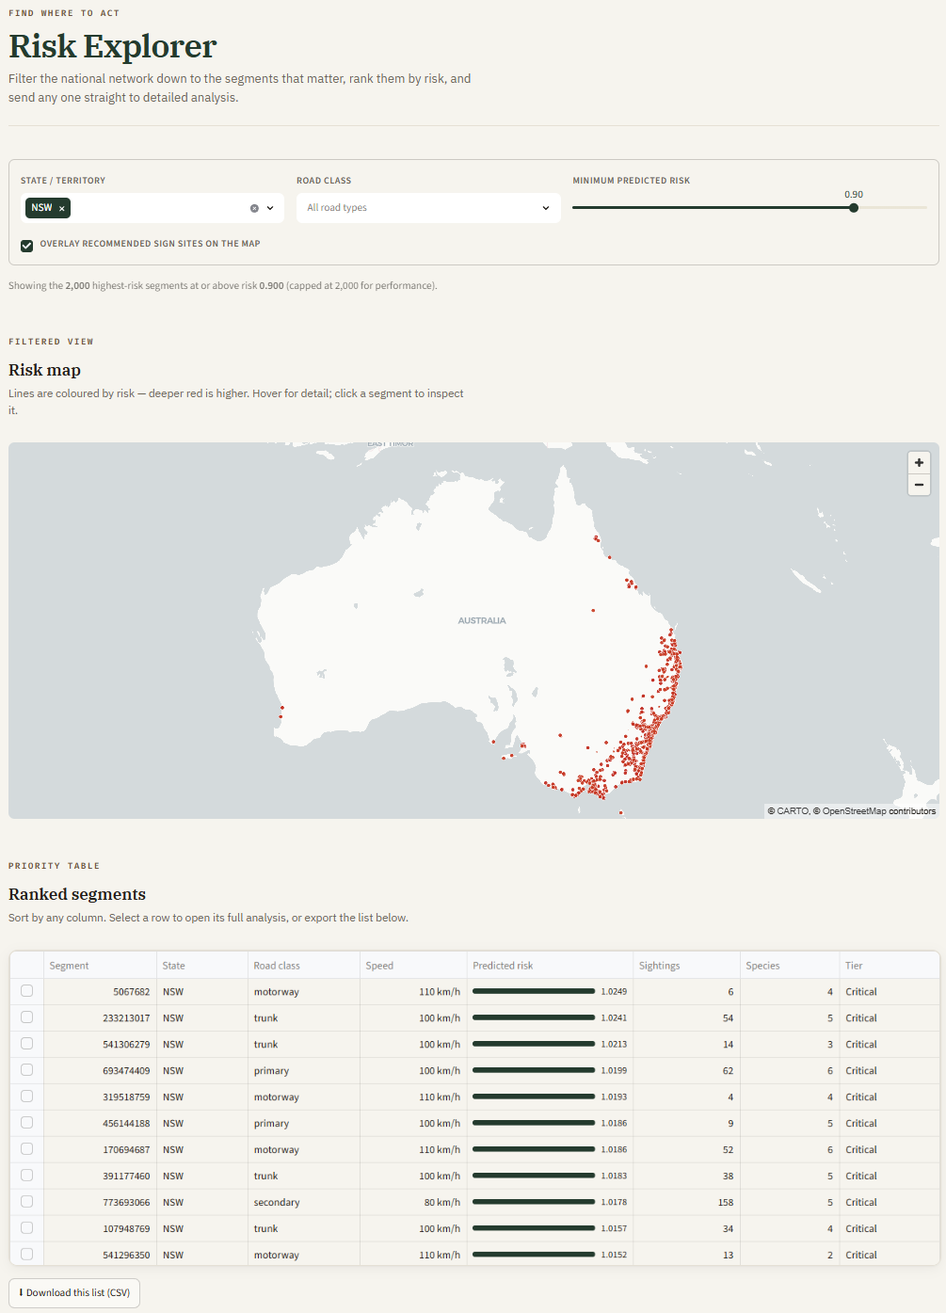
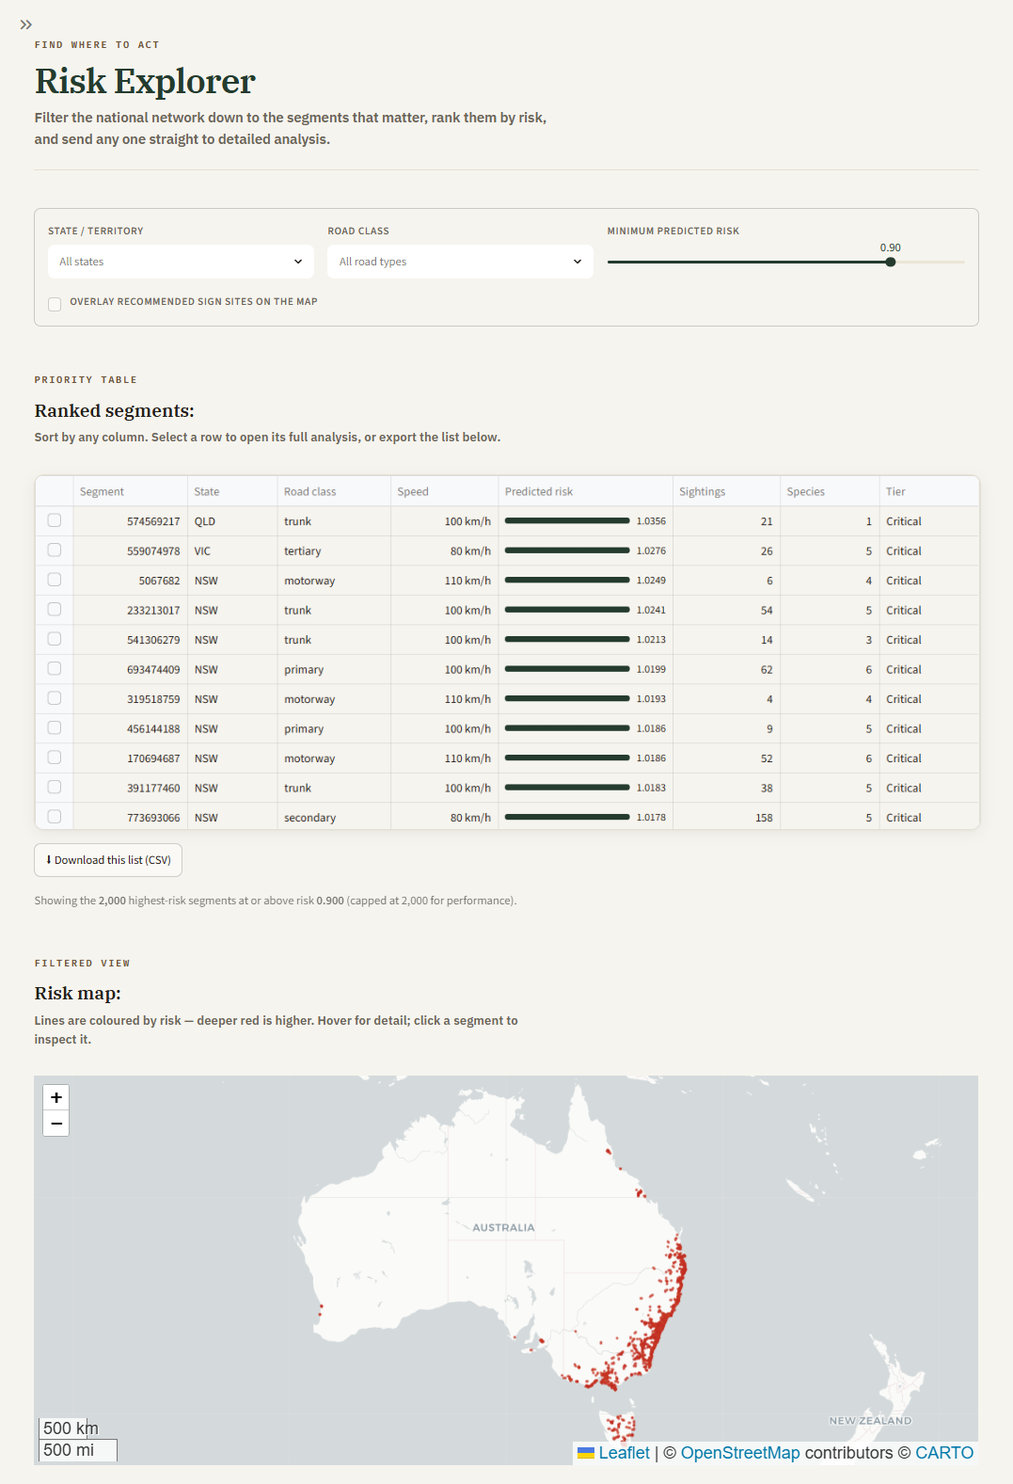
docs: update screenshots, README and METHODOLOGY

diff --git a/app/components/maps.py b/app/components/maps.py
@@ -1,5 +1,5 @@
 """
-maps.py — folium map builders (replaces the pydeck implementation).
+maps.py — folium map builders.
 
 Performance pattern:
   • Heavy GeoJSON view-models are built in @st.cache_data functions with

diff --git a/README.md b/README.md
@@ -39,51 +39,44 @@ Built entirely on 100% open data and open-source tools, it can be reproduced, au
 
 ## 📸 Application Interface & Core Views
 
-The interactive Streamlit application provides a multipage workspace for exploring model outputs, auditing segment risk factors, and reviewing signage proposals. The visual system uses the "Bushland & Hazard" design theme (warm eucalyptus green and Aussie-soil tones) structured into five distinct functional views.
+The interactive Streamlit application is structured into **five distinct functional views** under the "Bushland & Hazard" design theme — from national-scale hotspot discovery through per-segment SHAP diagnostics to GIS-ready sign placement export.
 
-### 1. National Overview
-
-Renders the high-level landing page, summarizing national network stats, state-by-state risk distributions, and a prioritized list of hotspots.
-
-![National Overview interface showing KPI cards, state risk choropleth map, and top hotspot table](docs/screenshots/1-national-overview.png)
-_National dashboard with WebGL state-level choropleth showing where critical road segments are concentrated._
-
----
-
-### 2. Risk Explorer
-
-Provides dynamic filtering (by state, road class, and risk threshold) to subset the national network. Features a high-performance WebGL segment map and interactive ranked list with download options.
-
-![Risk Explorer showing filters and high-risk segment path overlay on map](docs/screenshots/2-risk-explorer.png)
-
-_WebGL-rendered road segment paths colored by risk tier, paired with a sortable, row-selectable priority table that routes straight to detailed analysis._
-
-### 3. Segment Detail
-
-The diagnostic deep dive. For any individual segment, it details the specific features driving the risk prediction and visualizes its localized geometry.
-
-#### 🎛 SHAP Risk Attribution Waterfall
-
-![SHAP waterfall chart with custom green and orange color ramp for feature contributions](docs/screenshots/3-detail-shap.png)
-_Detailed inspection view featuring metric bands, warning sign status checks, a high-zoom segment locator map, and a color-coded SHAP waterfall plot showing positive (red) and negative (blue) feature attributions._
-
----
-
-### 4. Sign Placements
-
-The actionable planning tool. Maps the 1,189 recommended warning sign sites, shows state-by-state resource allocation, and allows downloading the coordinates as GIS-ready GeoJSON or CSV data.
-
-![Sign Placements page showing recommended sign markers across Australia and state breakdown](docs/screenshots/4-sign-placements.png)
-_Sign placement overview with recommended sign coordinates on the national map, filtered by state._
-
----
-
-### 5. Methodology & Data
-
-In-app documentation displaying system parameters, validation metrics (R², MAE, Moran's I), and design limitations to establish transparency.
-
-![Methodology & Data page showing system equations, validation summaries, and limitations](docs/screenshots/5-methodology-view.png)
-_Comprehensive documentation integrated directly into the web application chrome to support non-technical reviewer audits._
+<table style="width: 100%; max-width: 800px; margin: 0 auto; border-collapse: collapse;">
+  <tr>
+    <td width="33.3%" align="center" valign="top" style="padding: 10px;">
+      <img src="docs/screenshots/1-national-overview.png" alt="National Overview" style="width: 100%; max-width: 240px; border-radius: 6px; box-shadow: 0 2px 8px rgba(0,0,0,0.15);" /><br/>
+      <strong>National Overview</strong><br/>
+      <em>KPI cards · state choropleth · top-hotspot ranking table</em>
+    </td>
+    <td width="33.3%" align="center" valign="top" style="padding: 10px;">
+      <img src="docs/screenshots/2-risk-explorer.png" alt="Risk Explorer" style="width: 100%; max-width: 240px; border-radius: 6px; box-shadow: 0 2px 8px rgba(0,0,0,0.15);" /><br/>
+      <strong>Risk Explorer</strong><br/>
+      <em>State / road class / threshold filters · risk-tiered segment overlay · sortable priority table</em>
+    </td>
+    <td width="33.3%" align="center" valign="top" style="padding: 10px;">
+      <img src="docs/screenshots/3-detail-shap.png" alt="Segment Detail — SHAP Waterfall" style="width: 100%; max-width: 240px; border-radius: 6px; box-shadow: 0 2px 8px rgba(0,0,0,0.15);" /><br/>
+      <strong>Segment Detail</strong><br/>
+      <em>High-zoom locator map · SHAP waterfall attribution by feature</em>
+    </td>
+  </tr>
+  <tr>
+    <td width="33.3%" align="center" valign="top" style="padding: 10px;">
+      <img src="docs/screenshots/4-sign-placements.png" alt="Sign Placements" style="width: 100%; max-width: 240px; border-radius: 6px; box-shadow: 0 2px 8px rgba(0,0,0,0.15);" /><br/>
+      <strong>Sign Placements</strong><br/>
+      <em>1,189 recommended sites · state breakdown · GeoJSON / CSV export</em>
+    </td>
+    <td width="33.3%" align="center" valign="top" style="padding: 10px;">
+      <img src="docs/screenshots/5-methodology-view.png" alt="Methodology & Data" style="width: 100%; max-width: 240px; border-radius: 6px; box-shadow: 0 2px 8px rgba(0,0,0,0.15);" /><br/>
+      <strong>Methodology & Data</strong><br/>
+      <em>Proxy label approx · formulas · Data sources & coverage</em>
+    </td>
+    <td width="33.3%" align="center" valign="top" style="padding: 10px;">
+      <img src="docs/screenshots/5-methodology-view2.png" alt="Methodology & Data" style="width: 100%; max-width: 240px; border-radius: 6px; box-shadow: 0 2px 8px rgba(0,0,0,0.15);" /><br/>
+      <strong>Methodology & Data</strong><br/>
+      <em>Validation strategy · performance metrics · spatial autocorrelation · design limitations </em>
+    </td>
+  </tr>
+</table>
 
 ---
 
@@ -192,10 +185,10 @@ The platform is a sequential, modular pipeline — from raw API calls to a live 
                                  │
                                  ▼
 ╔══════════════════════════════════════════════════════════════════════╗
-║               STREAMLIT APPLICATION (Community Cloud)                ║
-║  Folium risk heatmap · High-risk segment overlay                     ║
+║               STREAMLIT APPLICATION (Hugging Face)                   ║
+║  Folium state choropleth · High-risk segment overlay                 ║
 ║  Sign placement markers · SHAP waterfall on click                    ║
-║  Species / season / state / risk filters in sidebar                  ║
+║  State / road class / risk threshold filters in Explorer             ║
 ╚══════════════════════════════════════════════════════════════════════╝
 ```
 
@@ -205,21 +198,45 @@ The platform is a sequential, modular pipeline — from raw API calls to a live 
 
 ### 1. Spatially-Lagged Proxy Label
 
-The system has no direct observational roadkill counts. Instead, it constructs a rigorous **proxy risk label** from first principles. The key innovation is the **spatial lag blending step**, which injects neighbourhood context into the label:
+The system has no direct observational roadkill counts. Instead, it constructs a rigorous **proxy risk label** from first principles. The key innovation is the **spatial lag blending step**, which injects neighbourhood context into the label. The diagram below illustrates the full label construction pipeline:
 
-```python
-# Step 1: Compute raw risk from ecology and road exposure
-raw_risk = ecological_score × road_exposure_score
+```mermaid
+flowchart LR
+    subgraph ECO["Ecological Dimension"]
+        E1["Sighting Density\n(norm)"]
+        E2["NDVI · Habitat Quality\n(norm)"]
+        E3["Species Richness\n(norm)"]
+        E4["Peak Season Weight\n(norm)"]
+        E5["Nocturnal Weight\n(norm)"]
+        E6["Body Mass Weight\n(norm)"]
+    end
 
-# Step 2: Compute spatial lag using PySAL KNN(k=5)
-# Each segment's label is influenced by 5 nearest neighbours
-spatial_lag = lag_spatial(w, raw_risk)   # row-standardised weights
+    subgraph ROAD["Road Exposure Dimension"]
+        R1["Speed Limit\n(norm)"]
+        R2["Proximity to Road\n(norm)"]
+        R3["Traffic Proxy\n(norm)"]
+    end
 
-# Step 3: Blend — 70% local signal, 30% neighbourhood context
-blended_risk = 0.7 × raw_risk + 0.3 × spatial_lag
+    ES["ecological_score\n(weighted sum)"]
+    RS["road_exposure_score\n(weighted sum)"]
 
-# Step 4: Rank normalise to [0, 1]
-proxy_risk = percentile_rank(blended_risk)
+    E1 & E2 & E3 & E4 & E5 & E6 --> ES
+    R1 & R2 & R3 --> RS
+
+    RR["raw_risk\n= ecological × road_exposure"]
+    ES & RS --> RR
+
+    SL["spatial_lag\n= KNN(k=5) weighted\navg of neighbours"]
+    RR --> SL
+
+    BR["blended_risk\n= 0.7 × raw + 0.3 × lag"]
+    RR & SL --> BR
+
+    PR["proxy_risk\n= percentile_rank → [0, 1]"]
+    BR --> PR
+
+    style ECO fill:#1a3a1a,stroke:#4caf50,color:#e8f5e9
+    style ROAD fill:#3a1a1a,stroke:#f44336,color:#ffebee
 ```
 
 **Why this matters:** The spatial lag makes the label **non-recoverable by formula**. No model can perfectly predict the label by just computing the raw ecological and road scores, because those scores don't contain the neighbourhood context encoded in the lag. This forces the model to learn genuine spatial generalisation patterns rather than memorising the label construction formula.
@@ -241,13 +258,21 @@ This gives XGBoost explicit neighbourhood context as input features, reducing th
 
 Standard random CV is catastrophically wrong for spatial data. If a model trains on segments 50m from a test segment, it will appear to generalise when it's actually interpolating. This platform uses **stochastic spatial block CV with jittered boundaries**:
 
-```python
-def assign_jittered_blocks(gdf, block_size=50_000, jitter_range=15_000):
-    # Randomly shift the 50km×50km grid by ±15km for each fold
-    jitter_x = np.random.uniform(-jitter_range, jitter_range)
-    jitter_y = np.random.uniform(-jitter_range, jitter_range)
-    # Assign each segment to its jittered block
-    ...
+```mermaid
+flowchart LR
+    A["Road Segments\n(EPSG:32754)"] --> B["Assign 50km × 50km\nGrid Blocks"]
+    B --> C["Apply ±15km Random\nBoundary Jitter per Fold"]
+    C --> D{"5-Fold\nGroupKFold\nCV Split"}
+    D --> E1["Fold 1\nTrain / Test"]
+    D --> E2["Fold 2\nTrain / Test"]
+    D --> E3["Fold 3\nTrain / Test"]
+    D --> E4["Fold 4\nTrain / Test"]
+    D --> E5["Fold 5\nTrain / Test"]
+    E1 & E2 & E3 & E4 & E5 --> F["Aggregate: CV R² · CV MAE\n(genuine out-of-sample estimate)"]
+
+    style A fill:#1a2a3a,stroke:#2196f3,color:#e3f2fd
+    style D fill:#3a2a1a,stroke:#ff9800,color:#fff3e0
+    style F fill:#1a3a1a,stroke:#4caf50,color:#e8f5e9
 ```
 
 Segments near block boundaries rotate between train and test sets across folds. The result is CV metrics that reflect **genuine out-of-sample spatial generalisation** — not interpolation between nearby points.
@@ -393,20 +418,34 @@ All five data sources are **100% free and openly licensed**. The entire pipeline
 
 ## 📈 Current Status
 
-| Phase  | Description                                     | Key Details                                                                  | Status      |
-| ------ | ----------------------------------------------- | ---------------------------------------------------------------------------- | ----------- |
-| **1**  | Data ingestion (ALA + GBIF)                     | Async HTTPX + Requests; 11 species × 8 states/territories                    | ✅ Complete |
-| **2**  | Data cleaning + deduplication                   | Null removal · bounding-box filter · temporal filter (2020–2026)             | ✅ Complete |
-| **3**  | Spatial join to road network + state boundaries | Nearest-neighbour join in EPSG:32754; `distance_to_road` column              | ✅ Complete |
-| **4**  | Feature engineering                             | NDVI composite; ecological weights; season mapping                           | ✅ Complete |
-| **5**  | Proxy label construction                        | Ecological × road exposure · spatial lag blend · rank normalisation          | ✅ Complete |
-| **6**  | Model training (XGBoost + SHAP + Moran's I)     | Stochastic spatial block CV · spatial lag input features · SHAP values       | ✅ Complete |
-| **7**  | Optuna hyperparameter search                    | 50-trial Bayesian optimisation (TPE sampler, multi-seed CV)                  | ✅ Complete |
-| **8**  | Sign placement engine                           | Risk threshold > 0.98 · per-state selection · 2km buffer dedup · 1,189 signs | ✅ Complete |
-| **9**  | Streamlit + Folium application                  | Risk heatmap · segment overlay · SHAP waterfall panel                        | ✅ Complete |
-| **10** | METHODOLOGY.md + documentation                  | Data provenance · label rationale · Moran's I result · limitations           | ✅ Complete |
+All development phases have been completed and the platform is fully deployed. The Gantt chart below illustrates phase sequencing and interdependencies across the pipeline:
 
-**Pipeline output:**
+```mermaid
+gantt
+    title Pipeline Development Phases — Australian Wildlife Roadkill Risk Mapper
+    dateFormat  YYYY-MM-DD
+    axisFormat  Phase %d
+
+    section Data Acquisition
+    Data ingestion (ALA + GBIF)          :done, p1, 2024-01-01, 2d
+    Data cleaning + deduplication        :done, p2, after p1, 1d
+
+    section Spatial Processing
+    Spatial join — road network + states :done, p3, after p2, 2d
+    Feature engineering (NDVI, weights)  :done, p4, after p3, 2d
+
+    section Modelling
+    Proxy label construction             :done, p5, after p4, 1d
+    XGBoost training + SHAP + Moran I    :done, p6, after p5, 3d
+    Optuna hyperparameter search         :done, p7, after p6, 2d
+
+    section Deployment
+    Sign placement engine                :done, p8, after p7, 1d
+    Streamlit + Folium application       :done, p9, after p8, 3d
+    METHODOLOGY.md + documentation       :done, p10, after p9, 2d
+```
+
+**Pipeline output artefacts:**
 
 - `sightings.parquet` — 413,000 sighting rows · 11 species · 17 features · ~18MB
 - `data/processed/road_segments.parquet` — Proxy risk score per road segment · ~53MB
@@ -422,16 +461,15 @@ All five data sources are **100% free and openly licensed**. The entire pipeline
 
 ### Technical Targets
 
-| Metric                    | Target           | Result                       | Status              |
-| ------------------------- | ---------------- | ---------------------------- | ------------------- |
-| App initial load time     | ≤ 5 seconds      | < 3 seconds                  | ✅ Met              |
-| SHAP coverage             | 100% of features | 100%                         | ✅ Met              |
-| SHAP plot generation      | < 5 seconds      | < 2 seconds                  | ✅ Met              |
-| Peak memory usage         | ≤ 1GB            | ~200MB pipeline · ~400MB app | ✅ Met              |
-| Initial page              | —                | ~0.9 seconds                 | ✅ Optimised        |
-| Metric cards              | —                | ~2.1 seconds                 | ✅ Optimised        |
-| Map (full load)           | —                | ~3.56 seconds                | ✅ Optimised        |
-| Memory vs. naive baseline | —                | 60–70% lower                 | ✅ Optimised        |
+| Metric                | Target           | Result                       | Status       |
+| --------------------- | ---------------- | ---------------------------- | ------------ |
+| App initial load time | ≤ 5 seconds      | ~2.25 seconds                | ✅ Met       |
+| SHAP coverage         | 100% of features | 100%                         | ✅ Met       |
+| SHAP plot generation  | < 5 seconds      | < 2 seconds                  | ✅ Met       |
+| Peak memory usage     | ≤ 1GB            | ~200MB pipeline · ~400MB app | ✅ Met       |
+| Initial page          | —                | ~2 seconds                   | ✅ Optimised |
+| Metric cards          | —                | ~2.1 seconds                 | ✅ Optimised |
+| Map (full load)       | —                | ~2.25 seconds                | ✅ Optimised |
 
 ### Scale Achieved
 
@@ -444,6 +482,21 @@ All five data sources are **100% free and openly licensed**. The entire pipeline
 | Open data sources                | 100%            | 100%   | ✅ Met      |
 
 ## 📉 Model Evaluation Results
+
+```mermaid
+quadrantChart
+    title Model Performance vs. Spatial Generalisation
+    x-axis "Lower Generalisation" --> "Higher Generalisation"
+    y-axis "Lower Accuracy" --> "Higher Accuracy"
+    quadrant-1 "Target Zone"
+    quadrant-2 "Overfit Risk"
+    quadrant-3 "Underperforming"
+    quadrant-4 "Spatially Biased"
+    "Spatial CV R² (0.9743)": [0.97, 0.97]
+    "Tasmania Holdout R (0.9835)": [0.98, 0.95]
+    "CV MAE (0.0337)": [0.96, 0.96]
+    "Moran I Residuals (0.3081)": [0.75, 0.70]
+```
 
 | Metric                            | Result          | Target | Status                   |
 | --------------------------------- | --------------- | ------ | ------------------------ |
@@ -540,10 +593,21 @@ aus-wildlife-roadkill-risk-mapper/
 │   │   ├── footer.html          # Application footer HTML
 │   │   └── style.css            # Custom CSS styling
 │   ├── components/
-│   │   ├── map_view.py          # Folium map builder with layer controls
-│   │   └── shap_panel.py        # Per-segment SHAP waterfall charts
+│   │   ├── views/               # contains each web page
+│   │   │   ├── __init__.py
+│   │   │   ├── explorer.py
+│   │   │   ├── methodology.py
+│   │   │   ├── overview.py
+│   │   │   ├── segment_detail.py
+│   │   │   └── sign_placements.py
+│   │   ├── __init__.py
+│   │   ├── data.py              # data loading helpers
+│   │   ├── maps.py              # Folium map builders
+│   │   ├── shap_panel.py        # Per-segment SHAP waterfall charts
+│   │   ├── theme.py             # reusable UI fragments
+│   │   └── ui.py                # contains the interaction helpers
+│   ├── static/                  # Folder for static serving
 │   └── streamlit_app.py         # Main application entry point
-├── backup/                      # Per-species enriched parquet files (11 files)
 ├── data/
 │   ├── model/                   # Model files
 │   │   ├── feature_cols.pkl     # Serialised feature column list
@@ -565,11 +629,10 @@ aus-wildlife-roadkill-risk-mapper/
 │   ├── analyzer.py              # Spatial joins · NDVI sampling · proxy label construction
 │   ├── model.py                 # XGBoost training · Optuna · spatial block CV · SHAP · Moran's I
 │   └── sign_placement.py        # Risk threshold + 2km buffer spatial deduplication engine
-├── sightings/                   # Per-species spatially-joined parquet files (11 files)
 ├── sightings.parquet            # Final feature store — 413k rows, 17 features (~18MB)
 ├── METHODOLOGY.md               # Research design, label rationale, validation, limitations
-├── requirements.txt
-└── LICENSE
+├── pyproject.toml               # Python project metadata and dependency management for uv
+└── LICENSE                      # MIT License
 ```
 
 ---
@@ -594,25 +657,25 @@ Results are reprojected back to **EPSG:4326** (WGS84 geographic) for Streamlit/F
 
 ### Ecological Risk Score Design
 
-The `ecological_score` uses a weighted combination of five normalised features:
+The `ecological_score` integrates six normalised ecological features under the following weighted formulation:
 
-```text
-ecological_score =
-  0.30 × norm(sighting_count)        # abundance at this segment
-+ 0.20 × norm(mean_ndvi)             # habitat quality
-+ 0.15 × norm(species_richness)      # biodiversity breadth
-+ 0.15 × norm(mean_peak_season_wt)   # seasonal activity elevation
-+ 0.10 × norm(mean_nocturnal_wt)     # night movement risk
-+ 0.10 × norm(mean_body_mass_wt)     # collision severity potential
+```mermaid
+pie title Ecological Score Feature Weights
+    "Sighting Count (abundance)" : 30
+    "Mean NDVI (habitat quality)" : 20
+    "Species Richness (biodiversity)" : 15
+    "Peak Season Weight (seasonality)" : 15
+    "Nocturnal Weight (night-movement risk)" : 10
+    "Body Mass Weight (collision severity)" : 10
 ```
 
-The `road_exposure_score` encodes the infrastructure danger:
+The `road_exposure_score` encodes the infrastructure danger under a complementary weighted formulation:
 
-```text
-road_exposure_score =
-  0.35 × norm(speed_limit)           # kinetic energy of potential collision
-+ 0.35 × norm(proximity)             # how close animals get to the road
-+ 0.30 × norm(traffic_proxy)         # vehicle frequency
+```mermaid
+pie title Road Exposure Score Feature Weights
+    "Speed Limit (kinetic energy of collision)" : 35
+    "Proximity to Road (animal–road distance)" : 35
+    "Traffic Proxy (vehicle frequency)" : 30
 ```
 
 The **multiplicative combination** (`raw_risk = ecological × road_exposure`) enforces that **both** conditions must co-occur for risk to be non-zero. A high-speed motorway through a wildlife-free zone scores low. An animal hotspot on a barely-used track scores low. Only segments where wildlife regularly approaches dangerous roads score high.

diff --git a/METHODOLOGY.md b/METHODOLOGY.md
@@ -615,14 +615,15 @@ and page layout:
 
 **Core Supporting Components (`app/components/`):**
 - `data.py` — Implements the cached data access layer. Prunes and memoizes GeoParquet and GeoJSON reads to minimize the in-memory footprint on resource-constrained platforms.
-- `maps.py` — Handles pydeck Mapbox-free basemap construction. Leverages WebGL for client-side rendering of dense vector lines and scatter layers, and implements selection parsing algorithms.
+- `maps.py` — Handles Folium basemap construction and layer generation. Leverages pre-computed GeoJSON layers to minimize Python looping overhead, provides cached static HTML generators for non-interactive maps, and implements version-tolerant selection parsing.
 - `shap_panel.py` — Extracts model coefficients and local feature matrices to render Matplotlib-based SHAP waterfall diagrams using a headless backend, caching outputs by segment ID.
 - `theme.py` — Defines the eucalyptus-and-paper conservation brand identity, maps risk scores to a unified warning gradient, and builds custom HTML wrappers for KPI cards and headers.
 - `ui.py` — Provides version-tolerant UI abstractions (e.g., fallback options for dataframe and map selections on older Streamlit versions) and programmatic navigation helpers.
 
 **Performance Optimisations:**
-- **WebGL Rendering via Pydeck**: Replaces Folium with pydeck, rendering tens of thousands of segments and recommended sign locations client-side to prevent DOM bloating and server-side lag.
-- **Cached View-Models**: Pre-computes geometric and fill colors inside `@st.cache_data` loops so that map layers render instantly on page reruns without executing red and green color-interpolation math.
+- **Pre-Rendered Static HTML Maps**: Bypasses traditional bidirectional Streamlit components for non-interactive views (like the national overview) by caching the raw map HTML (`folium.Map.get_root().render()`) and embedding it directly via `st.iframe`. This eliminates Folium generation CPU cycles on reruns and drastically cuts load times on low-resource environments (like the Hugging Face free tier).
+- **Optimized Interactive Map Serialization**: For interactive maps (e.g., Risk Explorer), pre-computes dense geometries (like the 1,189 recommended signs) into single `folium.GeoJson` FeatureCollections rather than individual marker objects. This minimizes the JSON payload serialized across the `streamlit-folium` websocket, preventing frontend lag.
+- **Cached View-Models**: Pre-computes geometric and fill colors inside `@st.cache_data` loops so that map data is ready instantly on page reruns without executing red and green color-interpolation math.
 - **Selective Column Loading**: Restricts Parquet reads strictly to the ~10 columns required by the UI (from the 25 present in the raw files), reducing the memory footprint on Streamlit Community Cloud.
 - **Pre-Aggregated Global Views**: Avoids loading the full 99k segment network on initial load, displaying state polygons at the national level and exposing dense segments only upon filtering or drilling down.
 - **Headless Plot Caching**: Renders Matplotlib SHAP plots on the headless 'Agg' backend and caches the output bytes per segment ID, preventing CPU thrashing on re-selection.
